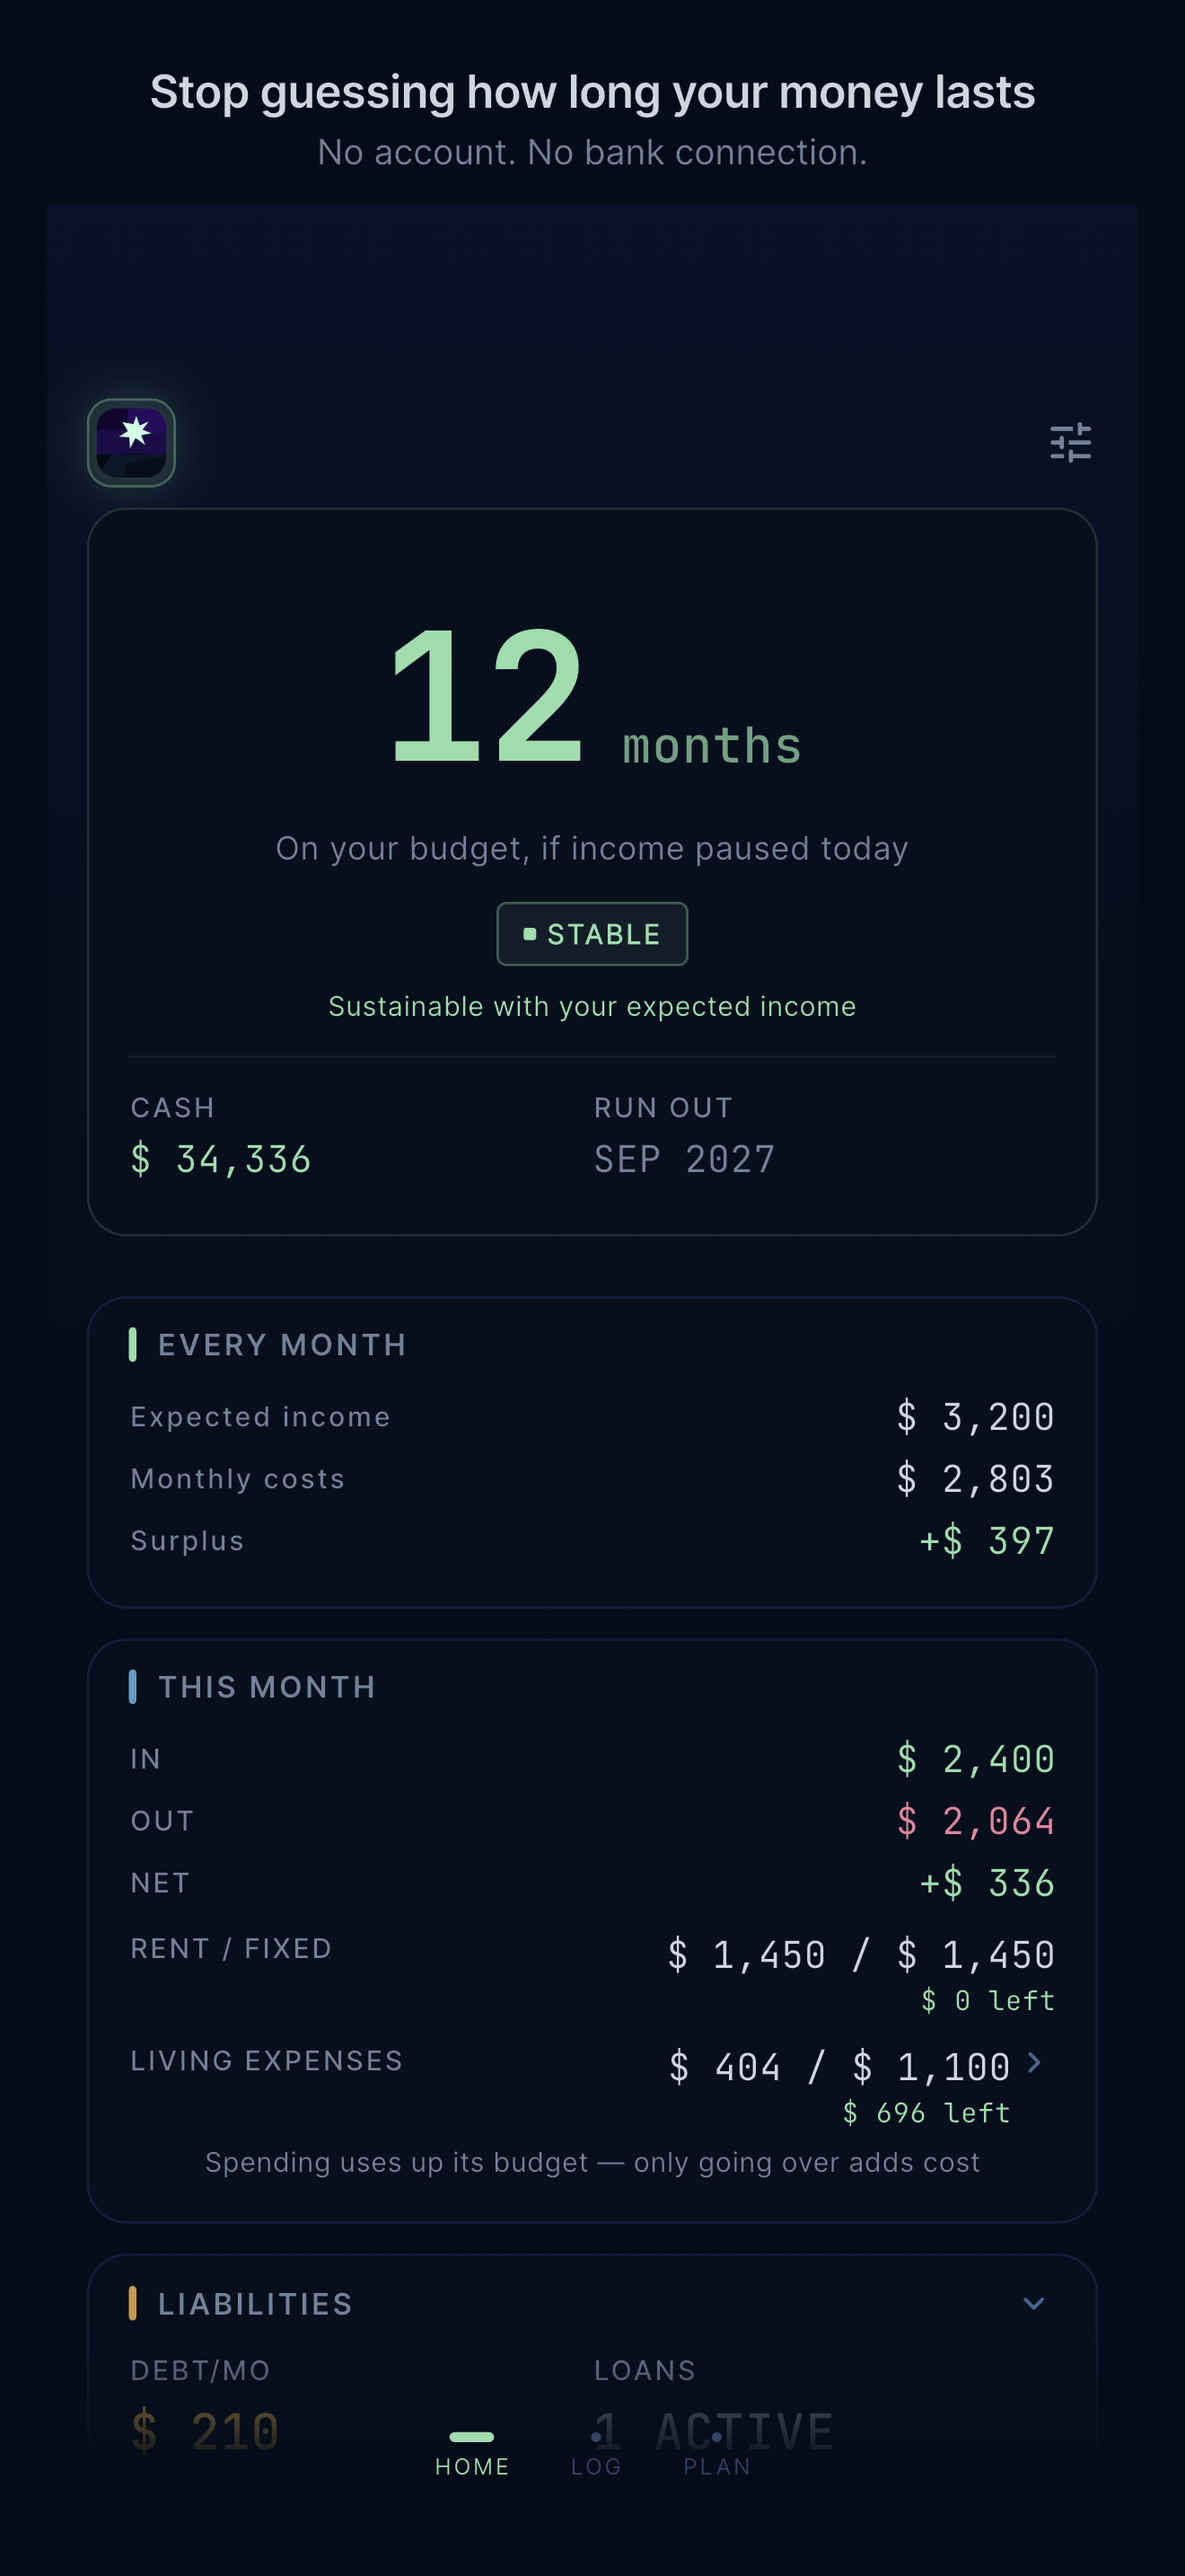
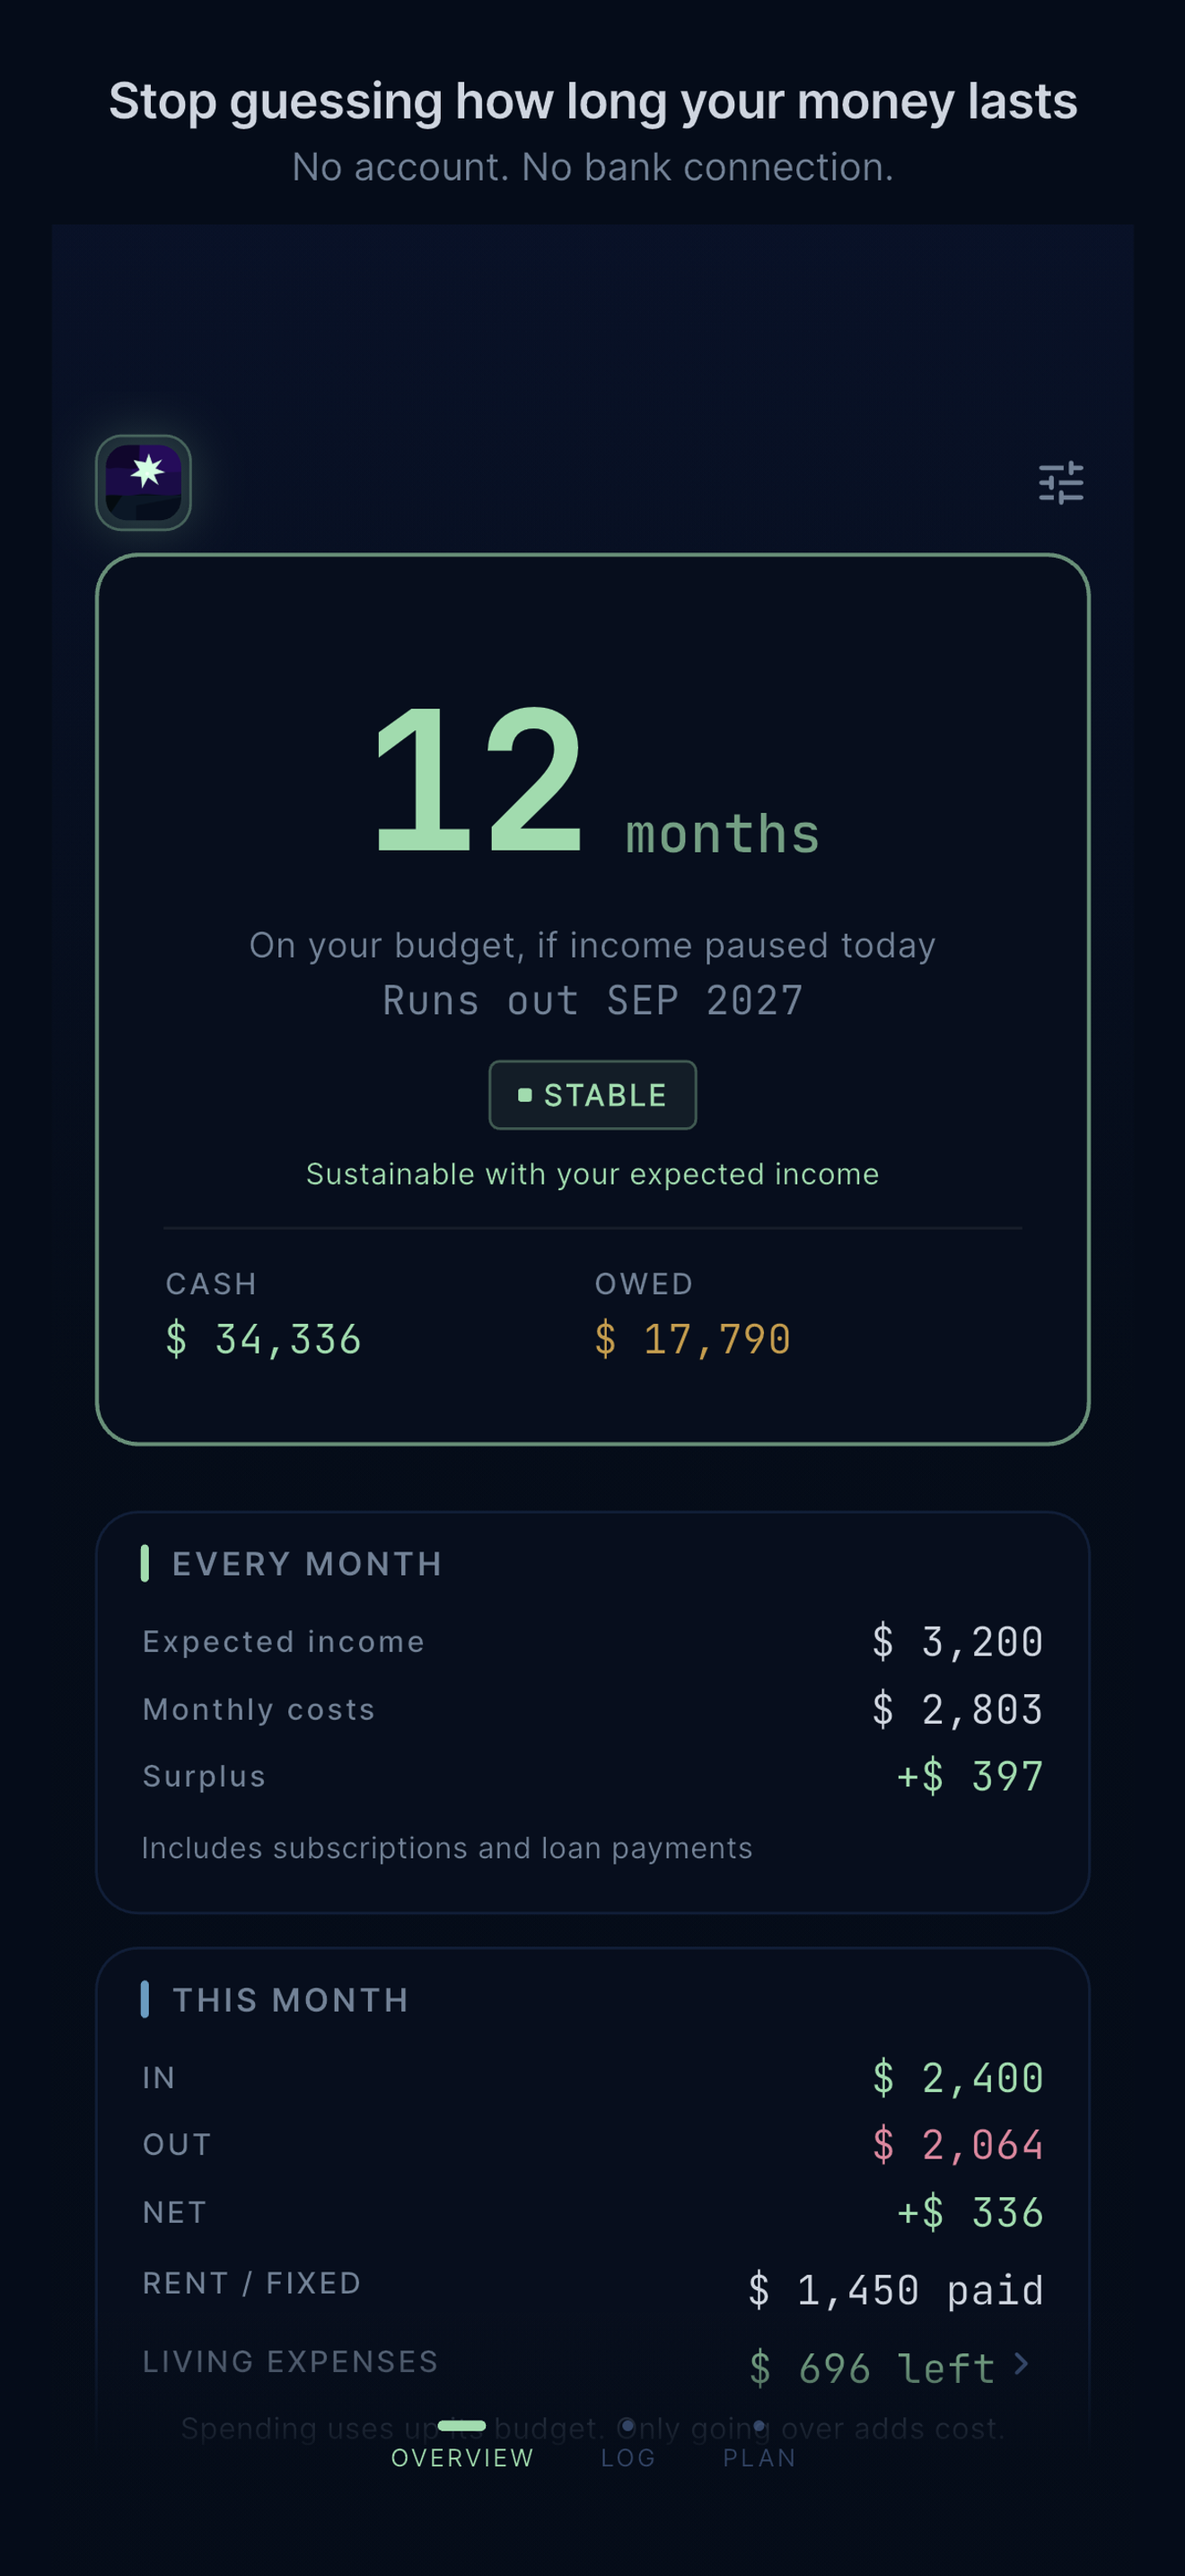
fix(ui): delete the example placeholders instead of localizing them (#259)
* chore(marketing): fix the screenshot harness, and refresh everything from it

The harness had been broken for a while. It dismissed a bottom sheet by tapping
a ModalBarrier with warnIfMissed false, so when that tap missed nothing said
so: the sheet stayed over the nav, the run never reached the Log screen, and it
died on a missing add-fab. It pops the sheet through the Navigator now, and all
four frames capture again.

That is why the committed art was stale. It predated OWED beside CASH, and
still carried the em dash in "Spending uses up its budget" that the app itself
fixed. Every store screenshot is regenerated from the current build.

New: five Devpost gallery images at 1536 x 1024, which is the 3:2 Devpost asks
for, each around 100 KB. Four cover the screens; the fifth is the one argument
the others do not make, that borrowing raises the headline number and the app
shows what is owed beside it.

The Shipaton thumbnail now comes from the same captures as everything else
rather than being composed by hand, so the art cannot drift from the app again.

runway-devpost-1179x2556.png stays at the top level rather than being copied
into devpost/ as well. One file, one place.

Claude-Session: https://claude.ai/code/session_01LzA2Gog4pmDHuvfaKeYrQX

* chore(marketing): add the Devpost icon assets

Devpost asks for a 1024 x 1024 uncropped icon, and prefers 3:2 for the gallery,
so both are here.

The icon in the repo has its rounded corners filled with opaque white, which is
[…]

diff --git a/app/integration_test/screenshots_test.dart b/app/integration_test/screenshots_test.dart
@@ -19,6 +19,8 @@ import 'package:flutter/foundation.dart';
 import 'package:flutter/material.dart';
 import 'package:flutter_test/flutter_test.dart';
 import 'package:integration_test/integration_test.dart';
+import 'package:presentation/features/loans/liabilities_panel.dart';
+import 'package:presentation/features/subscriptions/subscriptions_panel.dart';
 import 'package:presentation/router/page_indicator.dart';
 import 'package:shared_preferences/shared_preferences.dart';
 
@@ -38,6 +40,9 @@ const _plannedMonthlyCost = '2300';
 
 void main() {
   final binding = IntegrationTestWidgetsFlutterBinding.ensureInitialized();
+  // A tap that lands on nothing otherwise only prints a warning, and the run
+  // still captures a stale frame.
+  WidgetController.hitTestWarningShouldBeFatal = true;
 
   testWidgets('captures the store screenshots', (tester) async {
     SharedPreferences.setMockInitialValues({
@@ -68,6 +73,14 @@ void main() {
       await binding.takeScreenshot(name);
     }
 
+    // No caption band, so the app fills the frame at its own size. This is the
+    // frame that has to be a plain screenshot, not a store slide.
+    Future<void> captureBare(String name) async {
+      caption.value = null;
+      await pumpRealTime(tester, seconds: 1);
+      await binding.takeScreenshot(name);
+    }
+
     await capture(
       '01-runway',
       const _Caption(
@@ -76,6 +89,41 @@ void main() {
       ),
     );
 
+    // Loans and subscriptions sit next to each other below the fold, so one
+    // frame carries both.
+    await tester.scrollUntilVisible(
+      find.byType(SubscriptionsPanel),
+      400,
+      scrollable: find.byType(Scrollable).first,
+    );
+    await pumpRealTime(tester, seconds: 1);
+    // Both cards open, so the loan and the subscriptions are named rather than
+    // just counted. Subscriptions first: opening the loan above them pushes
+    // them off the frame, where a tap has nothing to hit.
+    await _expand(tester, find.byType(SubscriptionsPanel));
+    await _expand(tester, find.byType(LiabilitiesPanel));
+    await tester.scrollUntilVisible(
+      find.byType(SubscriptionsPanel),
+      200,
+      scrollable: find.byType(Scrollable).first,
+    );
+    // Come back up so the loan keeps its own heading in the frame.
+    await tester.ensureVisible(find.byType(LiabilitiesPanel));
+    await pumpRealTime(tester, seconds: 1);
+    await capture(
+      '05-commitments',
+      const _Caption(
+        'What is already decided',
+        'Loan payments and subscriptions, counted every month.',
+      ),
+    );
+
+    await tester.scrollUntilVisible(
+      find.text('LIVING EXPENSES'),
+      -400,
+      scrollable: find.byType(Scrollable).first,
+    );
+    await pumpRealTime(tester, seconds: 1);
     await tester.tap(find.text('LIVING EXPENSES'));
     await pumpRealTime(tester, seconds: 2);
     await capture(
@@ -86,7 +134,7 @@ void main() {
       ),
     );
     // Dismiss the sheet by tapping outside it.
-    await tester.tap(find.byType(ModalBarrier).last, warnIfMissed: false);
+    await _dismissSheet(tester);
     await pumpRealTime(tester, seconds: 2);
 
     await _tapNav(tester, 'LOG');
@@ -102,8 +150,10 @@ void main() {
         'Pick the occasion, type the amount.',
       ),
     );
-    await tester.tap(find.byType(ModalBarrier).last, warnIfMissed: false);
+    await _dismissSheet(tester);
     await pumpRealTime(tester, seconds: 2);
+    // The log itself, both sides of the month in one list.
+    await captureBare('06-log-full');
 
     await _tapNav(tester, 'PLAN');
     await tester.enterText(
@@ -124,6 +174,25 @@ void main() {
       ),
     );
   });
+}
+
+/// Opens a panel that starts collapsed, so the frame names what is inside it
+/// rather than only counting it.
+Future<void> _expand(WidgetTester tester, Finder panel) async {
+  // Only the header toggles the card, so aim at its chevron. Tapping the card
+  // itself lands on the summary and silently does nothing.
+  await tester.tap(
+    find.descendant(
+      of: panel,
+      matching: find.byIcon(Icons.keyboard_arrow_down_rounded),
+    ),
+  );
+  await pumpRealTime(tester, seconds: 1);
+}
+
+Future<void> _dismissSheet(WidgetTester tester) async {
+  tester.state<NavigatorState>(find.byType(Navigator).first).pop();
+  await pumpRealTime(tester, seconds: 1);
 }
 
 Future<void> _tapNav(WidgetTester tester, String label) async {
@@ -210,13 +279,20 @@ Future<void> _seed(AppDatabase database) async {
     await transactions.add(entry);
   }
 
-  final subs = <(String, double, BillingCycle)>[
-    ('iCloud', 2.99, BillingCycle.monthly),
-    ('Spotify', 10.99, BillingCycle.monthly),
-    ('Gym', 29.00, BillingCycle.monthly),
+  // Generic names on purpose. A real service name on a store screenshot or in
+  // the demo video is a third-party trademark, which both Apple and the
+  // Shipaton rules forbid.
+  // The last field is the day of the month each one bills on. They differ
+  // because real subscriptions do, and a column of identical countdowns reads
+  // as a bug.
+  final subs = <(String, double, BillingCycle, int)>[
+    ('Cloud storage', 2.99, BillingCycle.monthly, 20),
+    ('Music', 10.99, BillingCycle.monthly, 28),
+    ('Gym', 29.00, BillingCycle.monthly, 1),
   ];
   for (final (index, sub) in subs.indexed) {
-    final (name, amount, cycle) = sub;
+    final (name, amount, cycle, billingDay) = sub;
+    final startDate = DateTime(now.year - 1, now.month, billingDay);
     await subscriptions.add(
       Subscription(
         id: 'demo-sub-$index',
@@ -224,8 +300,8 @@ Future<void> _seed(AppDatabase database) async {
         category: SubscriptionCategory.personal,
         amount: amount,
         cycle: cycle,
-        startDate: DateTime(now.year - 1, now.month),
-        nextBillingDate: DateTime(now.year, now.month + 1, 3),
+        startDate: startDate,
+        nextBillingDate: nextBillingDateAfter(startDate, cycle, now),
         createdAt: now,
         updatedAt: now,
       ),

diff --git a/packages/presentation/lib/features/transactions/widgets/loan_wizard.dart b/packages/presentation/lib/features/transactions/widgets/loan_wizard.dart
@@ -397,7 +397,6 @@ class _LoanWizardState extends State<LoanWizard>
           label: l10n.nameLender,
           controller: _nameCtrl,
           inputType: NeoInputType.name,
-          hint: _source == "BANK" ? "Fubon" : "John",
           onChanged: (_) => setState(() {}),
         ),
         const SizedBox(height: AppSpacing.md),
@@ -405,7 +404,6 @@ class _LoanWizardState extends State<LoanWizard>
           label: l10n.loanAmount,
           controller: _amountCtrl,
           inputType: NeoInputType.decimal,
-          hint: "1880000",
           onChanged: (_) {
             setState(() {});
             _compute();
@@ -465,7 +463,6 @@ class _LoanWizardState extends State<LoanWizard>
           label: l10n.annualRate,
           controller: _rateCtrl,
           inputType: NeoInputType.decimal,
-          hint: "3.3",
           onChanged: (_) => _compute(),
         ),
         const SizedBox(height: AppSpacing.md),
@@ -473,7 +470,6 @@ class _LoanWizardState extends State<LoanWizard>
           label: l10n.repaymentMonths,
           controller: _monthsCtrl,
           inputType: NeoInputType.numeric,
-          hint: "84",
           onChanged: (_) {
             setState(() {});
             _compute();
@@ -586,7 +582,6 @@ class _LoanWizardState extends State<LoanWizard>
         NeoInput(
           label: l10n.noteOptional,
           controller: _noteCtrl,
-          hint: "study loan",
           onChanged: (_) {},
         ),
       ],

diff --git a/packages/presentation/test/no_hardcoded_placeholders_test.dart b/packages/presentation/test/no_hardcoded_placeholders_test.dart
@@ -1,0 +1,40 @@
+import 'dart:io';
+
+import 'package:flutter_test/flutter_test.dart';
+
+/// A placeholder that spells out an example is a liability, not a help.
+///
+/// It ships untranslated into six locales, it carries whatever currency and
+/// culture the author had in mind, and twice it named a real company. The
+/// labels beside these fields already say what they are for.
+///
+/// Format hints made of digits stay. So do the ones built from a value or
+/// taken from the ARB files.
+void main() {
+  test('no hint spells out an example', () {
+    final offenders = <String>[];
+    final hint = RegExp(r'''hint:\s*(?:'([^']*)'|"([^"]*)")''');
+
+    for (final file in Directory('lib')
+        .listSync(recursive: true)
+        .whereType<File>()
+        .where((f) => f.path.endsWith('.dart'))) {
+      final lines = file.readAsLinesSync();
+      for (var i = 0; i < lines.length; i++) {
+        for (final m in hint.allMatches(lines[i])) {
+          final value = m.group(1) ?? m.group(2) ?? '';
+          if (!RegExp(r'[A-Za-z]').hasMatch(value)) continue;
+          offenders.add('${file.path}:${i + 1}  $value');
+        }
+      }
+    }
+
+    expect(
+      offenders,
+      isEmpty,
+      reason:
+          'Hardcoded placeholder text found. Delete it, or if the field really '
+          'needs a hint, put it in the ARB files:\n${offenders.join('\n')}',
+    );
+  });
+}

diff --git a/packages/presentation/lib/features/subscriptions/subscription_form.dart b/packages/presentation/lib/features/subscriptions/subscription_form.dart
@@ -226,7 +226,6 @@ class _SubscriptionFormState extends State<SubscriptionForm> {
               label: l10n.subscriptionName,
               controller: _nameCtrl,
               inputType: NeoInputType.name,
-              hint: 'Netflix',
               onChanged: (_) => setState(() {}),
             ),
             const SizedBox(height: AppSpacing.md),
@@ -239,7 +238,6 @@ class _SubscriptionFormState extends State<SubscriptionForm> {
               // not be typed at all and every price with cents was
               // unenterable. The 1990 hint dated from yen.
               inputType: NeoInputType.decimal,
-              hint: '9.99',
               onChanged: (_) => setState(() {}),
             ),
             const SizedBox(height: AppSpacing.md),
@@ -319,7 +317,6 @@ class _SubscriptionFormState extends State<SubscriptionForm> {
             NeoInput(
               label: l10n.noteOptional,
               controller: _noteCtrl,
-              hint: 'streaming service',
               onChanged: (_) {},
             ),
             const SizedBox(height: AppSpacing.lg),

diff --git a/packages/presentation/lib/features/config/config_screen.dart b/packages/presentation/lib/features/config/config_screen.dart
@@ -520,14 +520,12 @@ class _ConfigScreenState extends ConsumerState<ConfigScreen> {
                             NeoInput(
                               label: l10n.goalName,
                               controller: _goalNameCtrl,
-                              hint: 'Paris Study',
                             ),
                             const SizedBox(height: AppSpacing.md),
                             NeoInput(
                               label: l10n.targetMonths,
                               controller: _goalMonthsCtrl,
                               keyboardType: TextInputType.number,
-                              hint: '24',
                             ),
                             const SizedBox(height: AppSpacing.md),
                             Row(

diff --git a/packages/presentation/lib/features/transactions/widgets/transaction_form.dart b/packages/presentation/lib/features/transactions/widgets/transaction_form.dart
@@ -280,7 +280,6 @@ class _TransactionFormState extends State<TransactionForm> {
               controller: _amountCtrl,
               focusNode: _amountFocus,
               inputType: NeoInputType.decimal,
-              hint: '50,000',
               onChanged: (_) => setState(() => _amountIsOffered = false),
             ),
             const SizedBox(height: AppSpacing.md),
@@ -290,7 +289,6 @@ class _TransactionFormState extends State<TransactionForm> {
               label: l10n.noteOptional,
               controller: _noteCtrl,
               inputType: NeoInputType.note,
-              hint: 'rent, groceries...',
             ),
             const SizedBox(height: AppSpacing.md),
 
